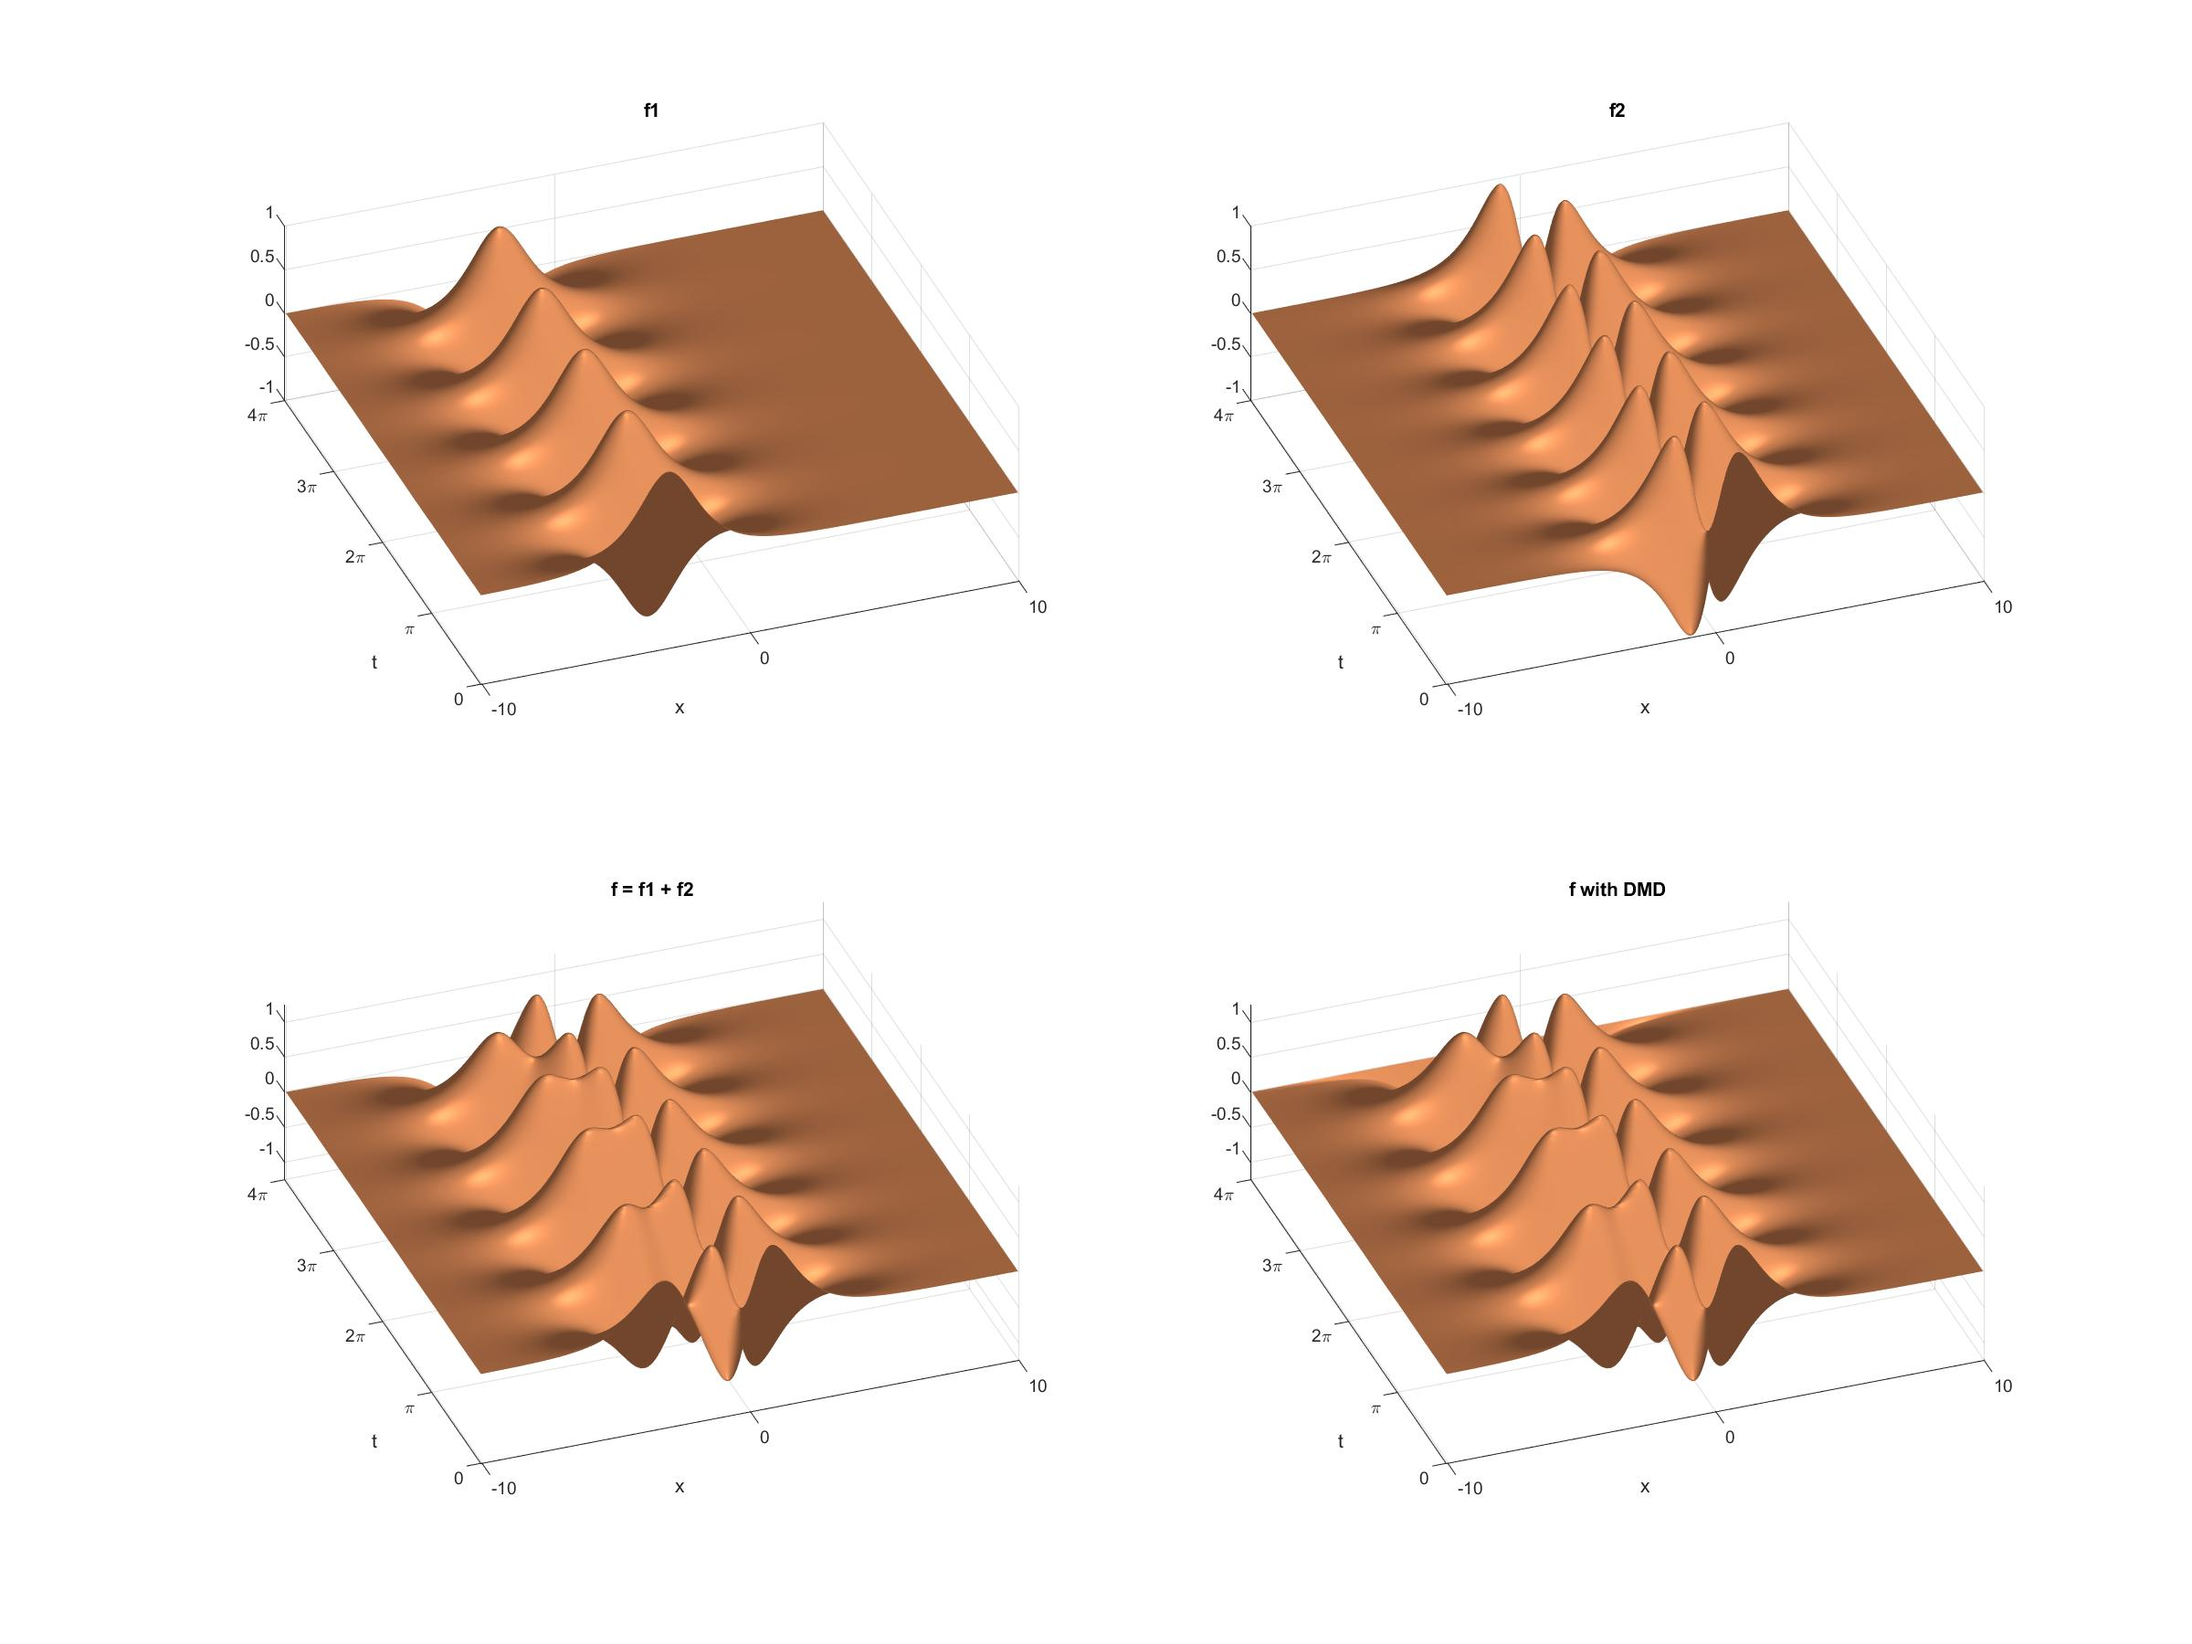
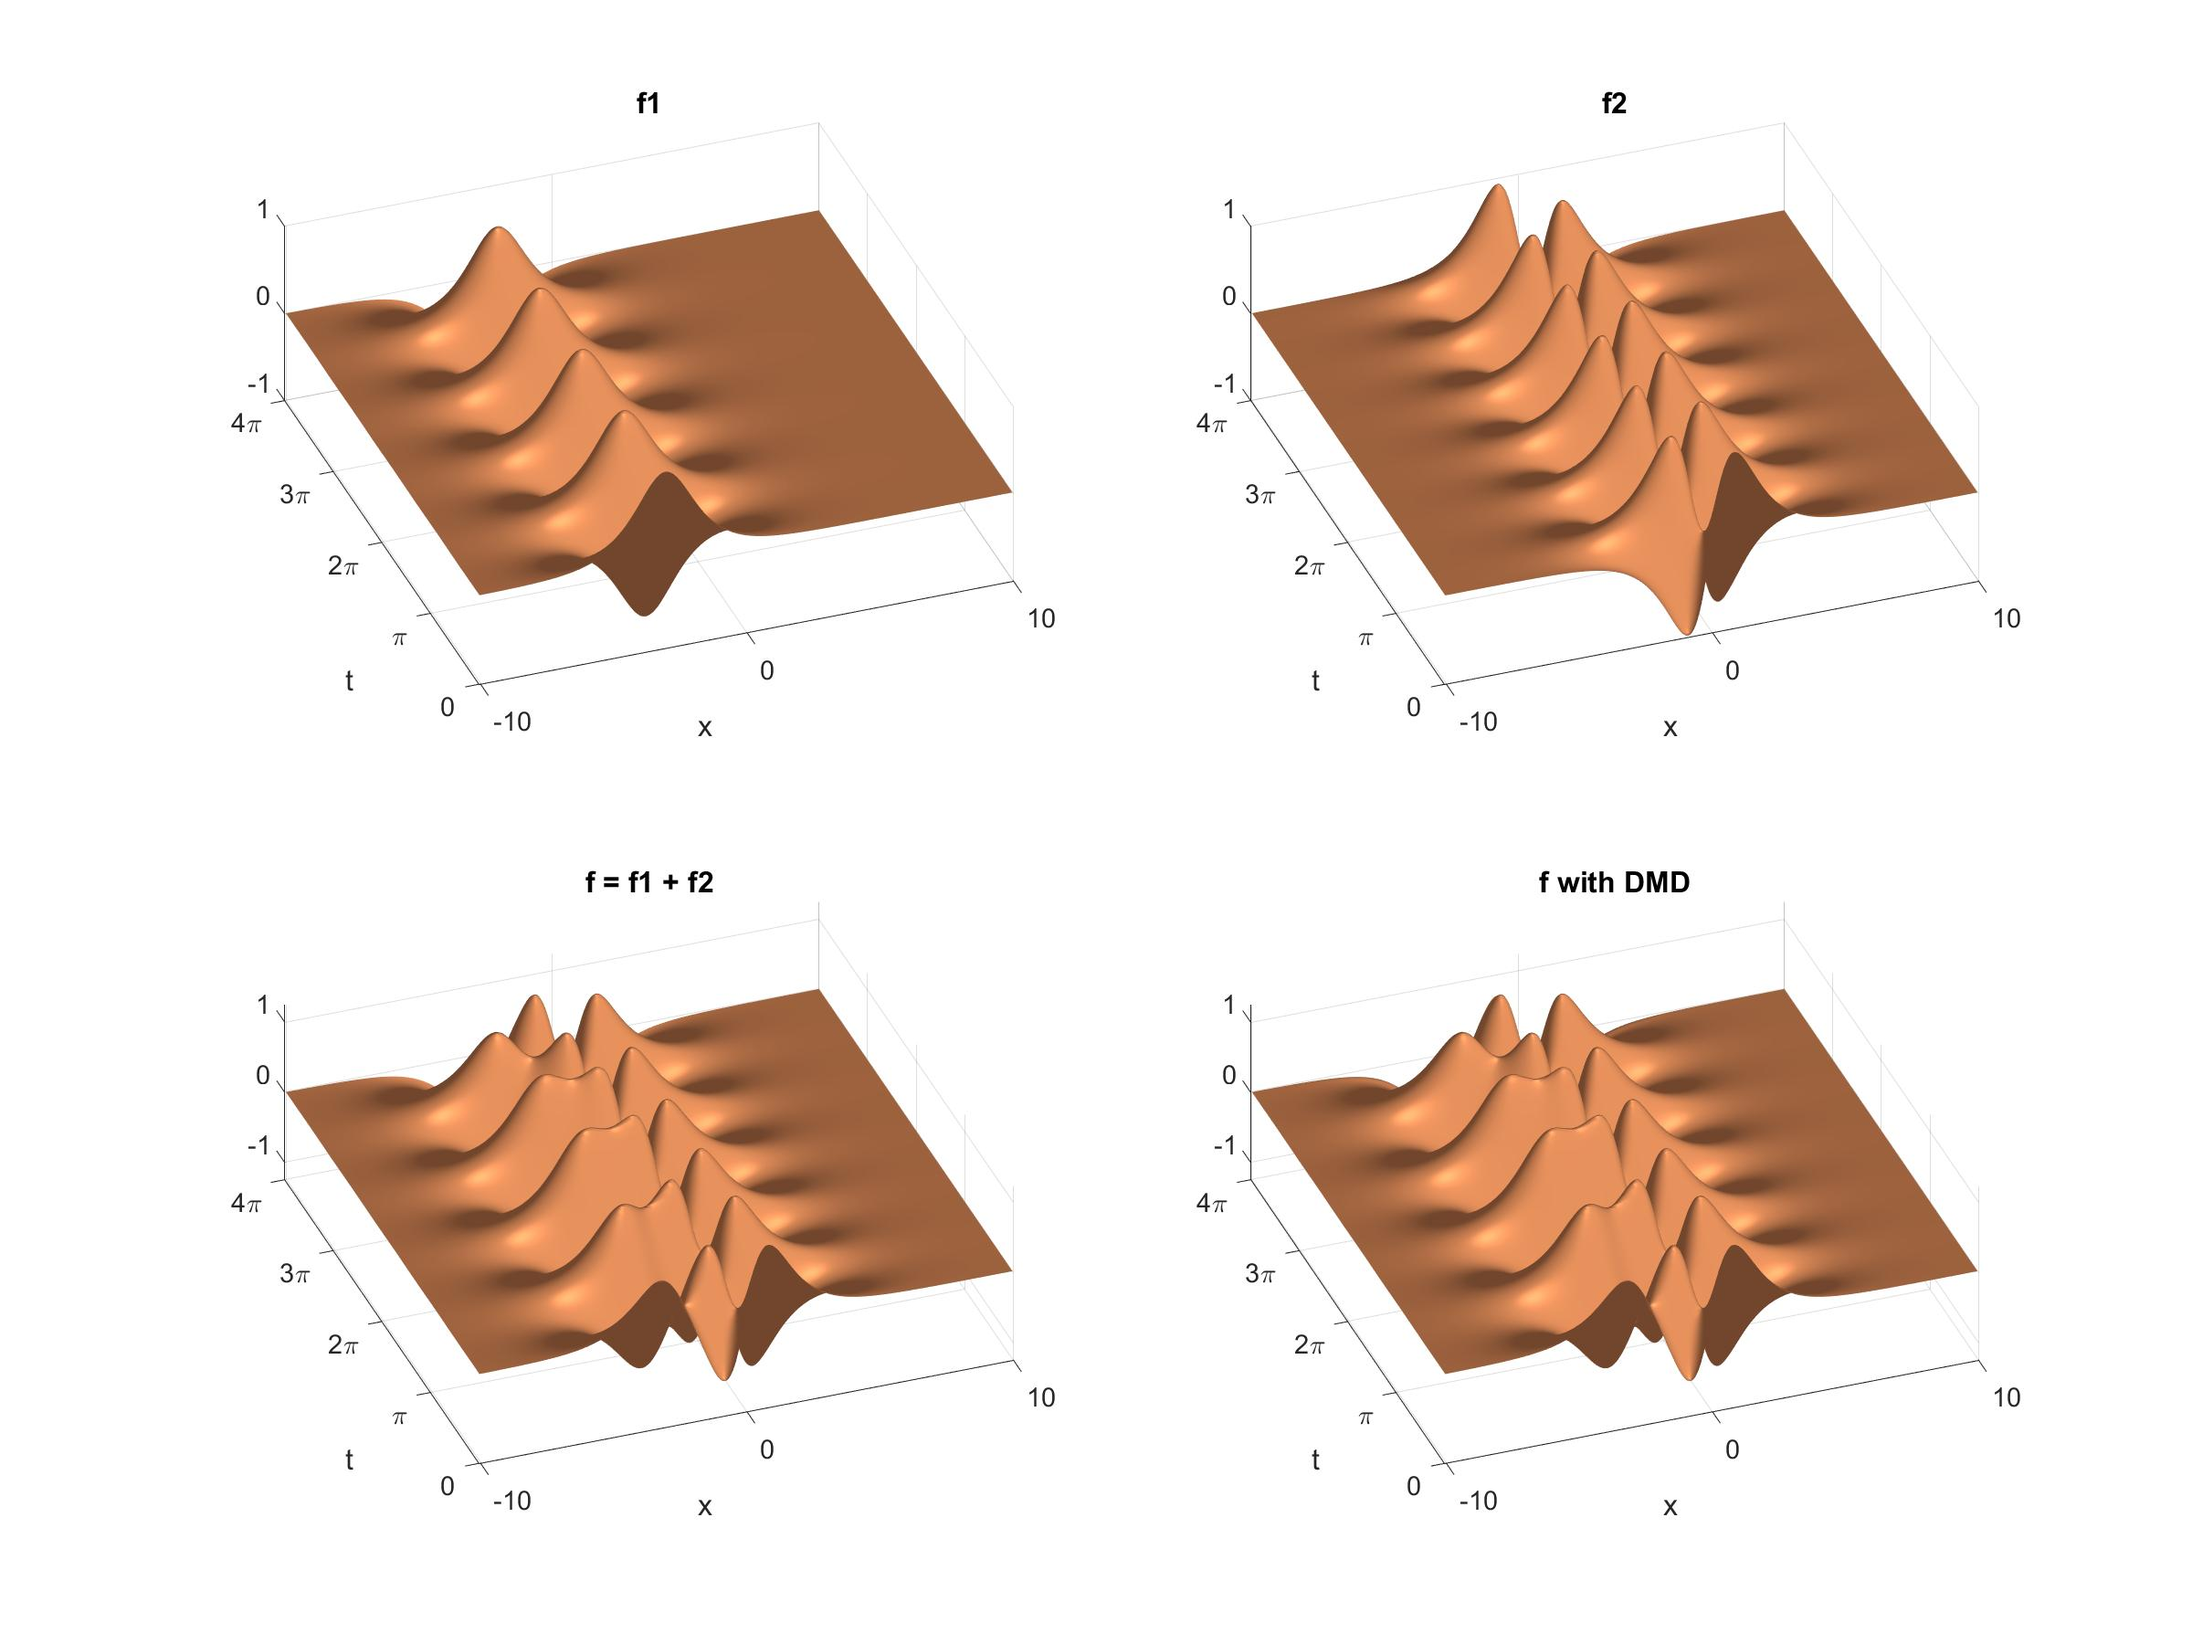
corrected ch1 algorithm

diff --git a/Chapter-DMD_book/CH01_INTRO/Algorithm_1_4.m b/Chapter-DMD_book/CH01_INTRO/Algorithm_1_4.m
@@ -1,38 +1,71 @@
 %% PCA method
 [U, S, V] = svd(X);
-pc1 = U(:, 1); % first PCA mode
-pc2 = U(:, 2); % second PCA mode
-time_pc1 = V(:, 1); % temporal evolution of pc1
-time_pc2 = V(:, 2); % temporal evolution of pc2
+pc = zeros(length(U),r);
+time_pc = zeros(length(V),r);
+for i = 1:r
+    pc(:,i) = U(:, i);          % store i-th PCA mode
+    time_pc(:,i) = V(:, i);     % store i-th temporal evolution of pc
+end
 
 %% ICA method
 [IC, ICt, ~] = fastica(real(X)');
-ic1 = IC(1, :); % first ICA mode
-ic2 = IC(2, :); % second ICA mode
-time_ic1 = ICt(:, 1); % temporal evolution of ic1
-time_ic2 = ICt(:, 2); % temporal evolution of ic2
+% first ICA mode is in IC(1, :)
+% first temporal evolution of ic1 is in ICt(:, 1)
 
 %% ploting section
+% variables for plots
+f1_half = f1(:,201:400);
+f2_half = f2(:,201:400);
+X_dmd1 = Phi(:,1) * time_dynamics(1,:);
+X_dmd1_half = X_dmd1(201:400,:);
+X_dmd2 = Phi(:,2) * time_dynamics(2,:);
+X_dmd2_half = X_dmd2(201:400,:);
+f1_tempoMode = 1.6*sum(real(f1_half),2)/norm(real(f1_half));
+dmd1_tempoMode = 1.6*transpose(sum(real(X_dmd2_half))/norm(real(X_dmd2_half)));
+pc1_tempoMode = 10*real(time_pc(:,1));
+ict1_tempoMode = 3*real(ICt(:,1));
+f2_tempoMode = 1.3*sum(real(f2_half),2)/norm(real(f2_half));
+dmd2_tempoMode = 1.3*transpose(sum(real(X_dmd1_half))/norm(real(X_dmd1_half)));
+pc2_tempoMode = 10*real(time_pc(:,2));
+ict2_tempoMode = 3*real(ICt(:,2));
+
 % plot singular values
-figure('Name', 'Singular values');
-S_values = diag(S);
-S_values_norm = S_values/sum(S_values);
-plot(S_values_norm(1:20),'o');
-xlabel('k');
-ylabel('\sigma_k')
+figure('Name', 'Singular values'), subplot(1,2,1)
+semilogy(diag(S), 'k', 'LineWidth',2), grid on
+xlabel('r')
+ylabel('Singular value, \sigma_r')
+set(gca, 'FontSize', 14)
+subplot(1,2,2)
+plot(cumsum(diag(S))/sum(diag(S)), 'k', 'LineWidth',2), grid on
+xlabel('r');
+ylabel('Cumulative Energy')
+set(gca, 'FontSize', 14)
+set(gcf, 'Color', 'w', 'Position', [400 200 800 600]);
+set(gcf, 'PaperUnits', 'inches', 'PaperPosition', [10 10 16 12], 'PaperPositionMode', 'manual');
+% print
+% print('-djpeg', '-loose', ['figures/' sprintf('singular_values1.jpeg')]);
 
 % plot Mode Error
-%figure('Name', 'Mode Error');
-%plot(norm(f-Phi(:,1))/norm(f), abs(f-pc1), abs(f-ic1), abs(f-Phi(:,2)), abs(f-pc2), abs(f-ic2));
+figure('Name','Error comparision','position',[700 50 400 500]);
+x = categorical({'Mode 1', 'Mode 2'});
+y = [norm(f1_tempoMode - dmd1_tempoMode), norm(f1_tempoMode - pc1_tempoMode), norm(f1_tempoMode - ict1_tempoMode); 
+    norm(f2_tempoMode - dmd2_tempoMode), norm(f2_tempoMode - pc2_tempoMode), norm(f2_tempoMode - ict2_tempoMode)];
+barh(x,y)
+xlabel('Error')
+title('Error comparision')
+legend({'DMD', 'PCA', 'ICA'})
+set (gca, 'ydir', 'reverse' )
+% print
+% print('-djpeg', '-loose', ['figures/' sprintf('error1.jpeg')]);
 
 % plot Temporal modes
-figure('Name','Mode comparision with different methods','position',[50 50 1000 600]);
+figure('Name','Mode comparision with different methods','position',[500 50 1000 600]);
 subplot(4,1,1); 
 hold on
-plot(T, real(f2(:,140)),'b','LineWidth',[1.5]);
-plot(T, real(X_dmd(140,:)'),'r--','LineWidth',[1.5]);
-plot(T, real(time_pc1),'g','LineWidth',[1.5]);
-plot(T, real(time_ic1),'m','LineWidth',[1.5]);
+plot(T, f1_tempoMode,'b','LineWidth',[1.5]);
+plot(T, dmd1_tempoMode,'r--','LineWidth',[1.5]);
+plot(T, pc1_tempoMode,'g','LineWidth',[1.5]);
+plot(T, ict1_tempoMode,'m','LineWidth',[1.5]);
 set(gca, 'XTick', 0:pi:4*pi), 
 set(gca, 'Xticklabel',{'0','\pi','2\pi','3\pi','4\pi'});
 title('Mode 1: Temporal');
@@ -41,27 +74,22 @@ hold off
 
 subplot(4,1,2)
 hold on
-plot(T, real(f3(:,220)),'b','LineWidth',[1.5]);
-plot(T, real(X_dmd(220,:)'),'r--','LineWidth',[1.5]);
-plot(T, real(time_pc2),'g','LineWidth',[1.5]);
-plo4 = plot(T, real(time_ic2),'m','LineWidth',[1.5]);
+plot(T, f2_tempoMode,'b','LineWidth',[1.5]);
+plot(T, dmd2_tempoMode,'r--','LineWidth',[1.5]);    %??
+plot(T, pc2_tempoMode,'g','LineWidth',[1.5]);
+plot(T, ict2_tempoMode,'m','LineWidth',[1.5]);
 title('Mode 2: Temporal');
 set(gca, 'XTick', 0:pi:4*pi), 
 set(gca, 'Xticklabel',{'0','\pi','2\pi','3\pi','4\pi'});
 xlabel('t');
 hold off
 
-% plot spatial modes
-for i = 1:400
-    f2_mod_norm(i) = f2(9,i)/max(max(f2));          % which cross-section?
-end
-
 subplot(4,1,3); 
 hold on
-plo1 = plot(Xgrid, real(f2_mod_norm),'b','LineWidth',[1.5]);
-plo2 = plot(Xgrid, real(Phi(:,1)'),'r--','LineWidth',[1.5]);
-plo3 = plot(Xgrid, real(pc1),'g','LineWidth',[1.5]);
-plo4 = plot(Xgrid,real(ic1/20),'m','LineWidth',[1.5]);       %what's with ic?
+plo1 = plot(Xgrid, real(f1(1,:)),'b','LineWidth',[1.5]);
+plo2 = plot(Xgrid, 6.5*real(Phi(:,2)'),'r--','LineWidth',[1.5]);
+plo3 = plot(Xgrid, 6.5*real(pc(:,2)),'g','LineWidth',[1.5]);
+plo4 = plot(Xgrid, 6.5*real(IC(2,:)/20),'m','LineWidth',[1.5]);       %what's with ic?
 title('Mode 1: Spatial');
 set(gca, 'XTick', -10:5:10), 
 xlabel('x');
@@ -70,18 +98,18 @@ hold off
 
 subplot(4,1,4)
 hold on
-plot(Xgrid, real(f3(53,:)),'b','LineWidth',[1.5]);
-plot(Xgrid, real(Phi(:,2)'),'r--','LineWidth',[1.5]);
-plot(Xgrid, real(pc2),'g','LineWidth',[1.5]);
-plot(Xgrid, real(ic2/20),'m','LineWidth',[1.5]);
+plot(Xgrid, real(f2(1,:)),'b','LineWidth',[1.5]);
+plot(Xgrid, -7.5*real(Phi(:,1)'),'r--','LineWidth',[1.5]);
+plot(Xgrid, -7.5*real(pc(:,1)),'g','LineWidth',[1.5]);
+plot(Xgrid, -7.5*real(IC(1,:)/20),'m','LineWidth',[1.5]);
 title('Mode 2: Spatial');
 set(gca, 'XTick', -10:5:10), 
 xlabel('x');
 hold off
-
-set(gcf, 'Color', 'w', 'Position', [200 200 800 600]);
+set(gcf, 'Color', 'w', 'Position', [50 250 800 600]);
 set(gcf, 'PaperUnits', 'inches', 'PaperPosition', [10 10 16 12], 'PaperPositionMode', 'manual');
-print('-djpeg', '-loose', ['figures/' sprintf('dmd_pca_ica_comparision4.jpeg')]);
+% print
+% print('-djpeg', '-loose', ['figures/' sprintf('dmd_pca_ica_comparision1.jpeg')]);
 
 %% predicting the future
 % size_dmd = size(X_dmd);

diff --git a/Chapter-DMD_book/CH01_INTRO/Algorithm_1_2.m b/Chapter-DMD_book/CH01_INTRO/Algorithm_1_2.m
@@ -1,3 +1,5 @@
+clear all, close all, clc;
+
 %% Define time and space discretizations
 xi = linspace(-10,10,400);
 t = linspace(0,4*pi,200); 
@@ -7,106 +9,46 @@ dt = t(2) - t(1);
 %% Create two spatio-temporal patterns
 f1 = sech(Xgrid+3).*(1*exp(1j*2.3*T));
 f2 = (sech(Xgrid).*tanh(Xgrid)).*(2*exp(1j*2.8*T));
-f3 = 0.5.*(sech(Xgrid + 5)).*(exp(1j*2.3*T)).*(tanh(T-pi)-tanh(T-3*pi));
-%f3 = sech(Xgrid + 6 - T).*exp(1j*2.3*T);
+% f2 = 0.5.*(sech(Xgrid + 5)).*(exp(1j*2.3*T)).*(tanh(T-pi)-tanh(T-3*pi));
+% f2 = sech(Xgrid + 6 - T).*exp(1j*2.8*T);
+% f2 = sech(0.2*T).*sech(0.9*Xgrid+7-T).*sqrt(Xgrid).*sqrt(T).*exp(1j*2.8*T);
 
 %% Combine signals and make data matrix
-plt1Use = 0;
-plt2Use = 1;
-plt3Use = 1;
-f = f2 + f3;
+f = f1 + f2;
 X = f.'; % Data Matrix
 
-%% Visualize fi, fj, and f
-figure;
-if plt1Use == 1
-    subplot(2,2,1); 
-    surfl(real(f1)); 
-    shading interp; colormap("copper"); view(-20,60);
-    set(gca, 'YTick', numel(t)/4 * (0:4)), 
-    set(gca, 'Yticklabel',{'0','\pi','2\pi','3\pi','4\pi'});
-    set(gca, 'XTick', linspace(1,numel(xi),3)), 
-    set(gca, 'Xticklabel',{'-10', '0', '10'});
-    title('f1');
-    xlabel('x');
-    ylabel('t');
+%% Visualize f1, f1 and f
+figure, subplot(2,2,1); 
+surfl(real(f1)); 
+shading interp; colormap("copper"); view(-20,60);
+set(gca, 'YTick', numel(t)/4 * (0:4)), 
+set(gca, 'Yticklabel',{'0','\pi','2\pi','3\pi','4\pi'});
+set(gca, 'XTick', linspace(1,numel(xi),3)), 
+set(gca, 'Xticklabel',{'-10', '0', '10'});
+title('f1');
+xlabel('x');
+ylabel('t');
+set(gca, 'FontSize', 14)
+subplot(2,2,2);
+surfl(real(f2));
+shading interp; colormap("copper"); view(-20,60);
+set(gca, 'YTick', numel(t)/4 * (0:4)), 
+set(gca, 'Yticklabel',{'0','\pi','2\pi','3\pi','4\pi'});
+set(gca, 'XTick', linspace(1,numel(xi),3)), 
+set(gca, 'Xticklabel',{'-10', '0', '10'});
+title('f2');
+xlabel('x');
+ylabel('t');
+set(gca, 'FontSize', 14)
+subplot(2,2,3);
+surfl(real(f)); 
+shading interp; colormap("copper"); view(-20,60);
+set(gca, 'YTick', numel(t)/4 * (0:4)), 
+set(gca, 'Yticklabel',{'0','\pi','2\pi','3\pi','4\pi'});
+set(gca, 'XTick', linspace(1,numel(xi),3)), 
+set(gca, 'Xticklabel',{'-10', '0', '10'});
+title('f = f1 + f2');
+xlabel('x');
+ylabel('t');
+set(gca, 'FontSize', 14)
 
-    if plt2Use == 1
-        subplot(2,2,2);
-        surfl(real(f2));
-        shading interp; colormap("copper"); view(-20,60);
-        set(gca, 'YTick', numel(t)/4 * (0:4)), 
-        set(gca, 'Yticklabel',{'0','\pi','2\pi','3\pi','4\pi'});
-        set(gca, 'XTick', linspace(1,numel(xi),3)), 
-        set(gca, 'Xticklabel',{'-10', '0', '10'});
-        title('f2');
-        xlabel('x');
-        ylabel('t');
-
-        subplot(2,2,3);
-        surfl(real(f)); 
-        shading interp; colormap("copper"); view(-20,60);
-        set(gca, 'YTick', numel(t)/4 * (0:4)), 
-        set(gca, 'Yticklabel',{'0','\pi','2\pi','3\pi','4\pi'});
-        set(gca, 'XTick', linspace(1,numel(xi),3)), 
-        set(gca, 'Xticklabel',{'-10', '0', '10'});
-        title('f = f1 + f2');
-        xlabel('x');
-        ylabel('t');
-    else
-        subplot(2,2,2);
-        surfl(real(f3));
-        shading interp; colormap("copper"); view(-20,60);
-        set(gca, 'YTick', numel(t)/4 * (0:4)), 
-        set(gca, 'Yticklabel',{'0','\pi','2\pi','3\pi','4\pi'});
-        set(gca, 'XTick', linspace(1,numel(xi),3)), 
-        set(gca, 'Xticklabel',{'-10', '0', '10'});
-        title('f3');
-        xlabel('x');
-        ylabel('t');
-
-        subplot(2,2,3);
-        surfl(real(f)); 
-        shading interp; colormap("copper"); view(-20,60);
-        set(gca, 'YTick', numel(t)/4 * (0:4)), 
-        set(gca, 'Yticklabel',{'0','\pi','2\pi','3\pi','4\pi'});
-        set(gca, 'XTick', linspace(1,numel(xi),3)), 
-        set(gca, 'Xticklabel',{'-10', '0', '10'});
-        title('f = f1 + f3');
-        xlabel('x');
-        ylabel('t');
-    end
-else
-    subplot(2,2,1);
-    surfl(real(f2));
-    shading interp; colormap("copper"); view(-20,60);
-    set(gca, 'YTick', numel(t)/4 * (0:4)), 
-    set(gca, 'Yticklabel',{'0','\pi','2\pi','3\pi','4\pi'});
-    set(gca, 'XTick', linspace(1,numel(xi),3)), 
-    set(gca, 'Xticklabel',{'-10', '0', '10'});
-    title('f2');
-    xlabel('x');
-    ylabel('t');
-
-    subplot(2,2,2);
-    surfl(real(f3));
-    shading interp; colormap("copper"); view(-20,60);
-    set(gca, 'YTick', numel(t)/4 * (0:4)), 
-    set(gca, 'Yticklabel',{'0','\pi','2\pi','3\pi','4\pi'});
-    set(gca, 'XTick', linspace(1,numel(xi),3)), 
-    set(gca, 'Xticklabel',{'-10', '0', '10'});
-    title('f3');
-    xlabel('x');
-    ylabel('t');
-
-    subplot(2,2,3);
-    surfl(real(f)); 
-    shading interp; colormap("copper"); view(-20,60);
-    set(gca, 'YTick', numel(t)/4 * (0:4)), 
-    set(gca, 'Yticklabel',{'0','\pi','2\pi','3\pi','4\pi'});
-    set(gca, 'XTick', linspace(1,numel(xi),3)), 
-    set(gca, 'Xticklabel',{'-10', '0', '10'});
-    title('f = f2 + f3');
-    xlabel('x');
-    ylabel('t');
-end

diff --git a/Chapter-DMD_book/CH01_INTRO/Algorithm_1_3.m b/Chapter-DMD_book/CH01_INTRO/Algorithm_1_3.m
@@ -6,10 +6,11 @@ X2 = X(:, 2:end);
 r = 2; % rank truncation
 
 %% calculate DMD
-[Phi,omega,lambda,b,X_dmd] = DMD(X1,X2,r,dt);
-X_dmd(:,200) = 0;
+[Phi,omega,lambda,b,X_dmd,time_dynamics] = DMD(X1,X2,r,dt);
+X_dmd(:,end+1) = X_dmd(:,end);           % to be able to display later
+time_dynamics(:, end+1) = time_dynamics(:end);
 
-
+%% plot approximated function through DMD
 subplot(2,2,4); 
 surfl(real(X_dmd')); 
 shading interp; colormap("copper"); view(-20,60);
@@ -20,8 +21,9 @@ set(gca, 'Xticklabel',{'-10', '0', '10'});
 title('f with DMD');
 xlabel('x');
 ylabel('t');
-
+set(gca, 'FontSize', 14)
 set(gcf, 'Color', 'w', 'Position', [400 400 600 400]);
 set(gcf, 'PaperUnits', 'inches', 'PaperPosition', [10 10 16 12], 'PaperPositionMode', 'manual');
-print('-djpeg', '-loose', ['figures/' sprintf('dmd_intro4.jpeg')]);
+% change figure title for different figures
+print('-djpeg', '-loose', ['figures/' sprintf('dmd_intro1.jpeg')]);
 

diff --git a/Chapter-DMD_book/CH01_INTRO/DMD.m b/Chapter-DMD_book/CH01_INTRO/DMD.m
@@ -1,4 +1,4 @@
-function [Phi,omega,lambda,b,Xdmd] = DMD(X1,X2,r,dt)
+function [Phi,omega,lambda,b,Xdmd,time_dynamics] = DMD(X1,X2,r,dt)
 % function [Phi,omega,lambda,b,Xdmd] = DMD(X1,X2,r,dt)
 % Computes the Dynamic Mode Decomposition of X1, X2
 %
